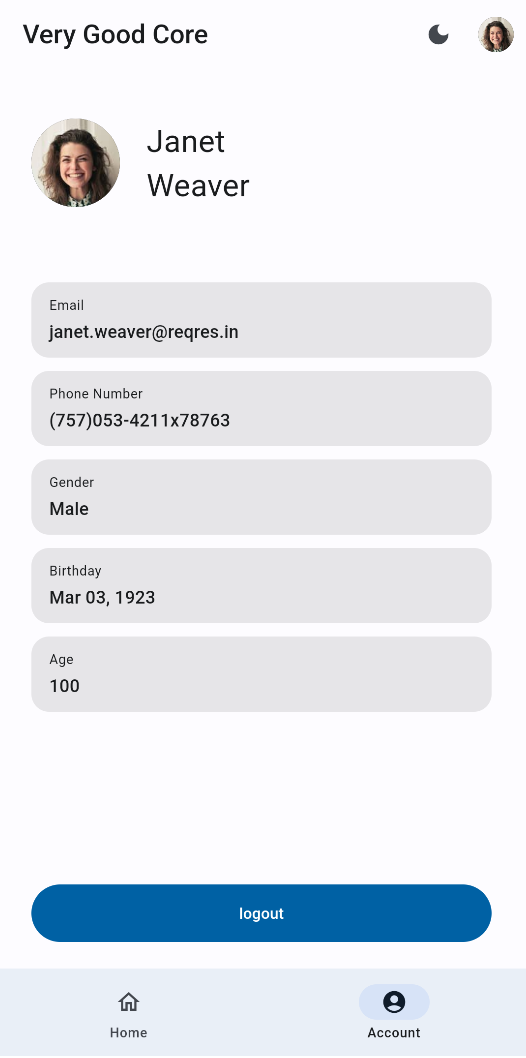
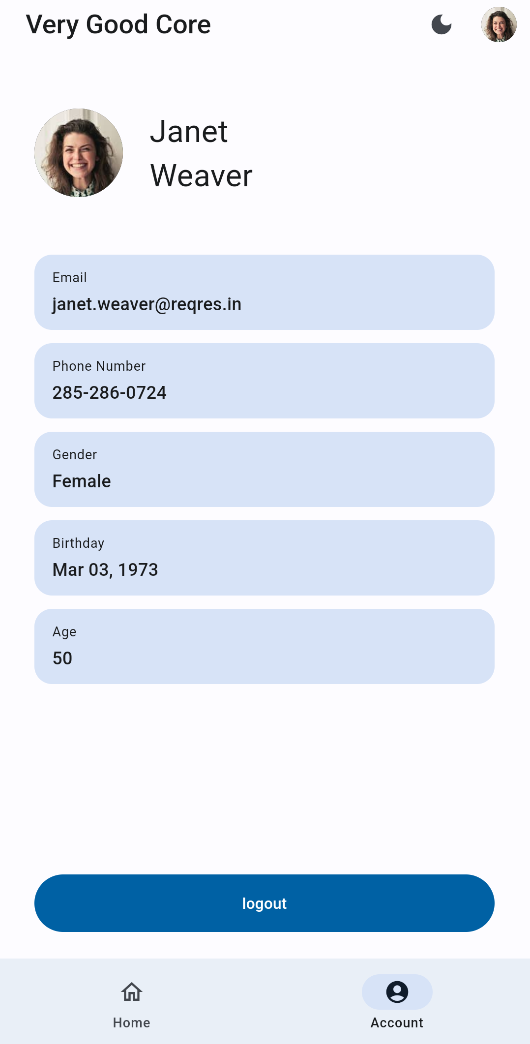
docs: add architecture diagram (#19)
* docs: add architecture diagram

* fix(analyze): fix mock imports

diff --git a/src/my_app/lib/features/home/presentation/widgets/post_container_footer.dart b/src/my_app/lib/features/home/presentation/widgets/post_container_footer.dart
@@ -45,7 +45,7 @@ class _FooterItems extends StatelessWidget {
         padding: EdgeInsets.symmetric(horizontal: Insets.xs),
         decoration: BoxDecoration(
           border: Border.all(
-            color: Theme.of(context).colorScheme.onBackground.withOpacity(0.25),
+            color: context.colorScheme.onBackground.withOpacity(0.25),
           ),
           borderRadius: AppTheme.defaultBoardRadius,
         ),
@@ -55,14 +55,14 @@ class _FooterItems extends StatelessWidget {
             Icon(
               leftIcon,
               size: (AppTextStyle.bodySmall.fontSize ?? 14) * 1.5,
-              color: Theme.of(context).colorScheme.secondary,
+              color: context.colorScheme.secondary,
             ),
             Padding(
               padding: EdgeInsets.all(Insets.xs),
               child: Text(
                 value,
                 style: AppTextStyle.bodySmall.copyWith(
-                  color: Theme.of(context).colorScheme.secondary,
+                  color: context.colorScheme.secondary,
                 ),
               ),
             ),
@@ -70,7 +70,7 @@ class _FooterItems extends StatelessWidget {
               Icon(
                 rightIcon,
                 size: (AppTextStyle.bodySmall.fontSize ?? 14) * 1.5,
-                color: Theme.of(context).colorScheme.secondary,
+                color: context.colorScheme.secondary,
               ),
           ],
         ),

diff --git a/src/my_app/lib/features/home/presentation/widgets/empty_post.dart b/src/my_app/lib/features/home/presentation/widgets/empty_post.dart
@@ -9,7 +9,7 @@ class EmptyPost extends StatelessWidget {
   @override
   Widget build(BuildContext context) => Container(
         padding: EdgeInsets.symmetric(horizontal: Insets.lg),
-        color: Theme.of(context).colorScheme.background,
+        color: context.colorScheme.background,
         width: double.infinity,
         child: Column(
           mainAxisAlignment: MainAxisAlignment.center,
@@ -17,18 +17,14 @@ class EmptyPost extends StatelessWidget {
             Icon(
               Icons.list_alt,
               size: 200,
-              color:
-                  Theme.of(context).colorScheme.onBackground.withOpacity(0.25),
+              color: context.colorScheme.onBackground.withOpacity(0.25),
             ),
             Padding(
               padding: EdgeInsets.only(top: Insets.sm, bottom: Insets.xs),
               child: Text(
                 context.l10n.post__empty_post__empty_post_message,
                 style: AppTextStyle.titleLarge.copyWith(
-                  color: Theme.of(context)
-                      .colorScheme
-                      .onBackground
-                      .withOpacity(0.25),
+                  color: context.colorScheme.onBackground.withOpacity(0.25),
                 ),
                 textAlign: TextAlign.center,
               ),

diff --git a/src/my_app/lib/core/presentation/widgets/very_good_core_text_field.dart b/src/my_app/lib/core/presentation/widgets/very_good_core_text_field.dart
@@ -2,6 +2,7 @@ import 'package:flutter/material.dart';
 import 'package:flutter_hooks/flutter_hooks.dart';
 import 'package:very_good_core/app/themes/spacing.dart';
 import 'package:very_good_core/app/themes/text_styles.dart';
+import 'package:very_good_core/app/utils/extensions.dart';
 
 class VeryGoodCoreTextField extends StatelessWidget {
   const VeryGoodCoreTextField({
@@ -47,7 +48,7 @@ class VeryGoodCoreTextField extends StatelessWidget {
 
   @override
   Widget build(BuildContext context) {
-    final ColorScheme colorScheme = Theme.of(context).colorScheme;
+    final ColorScheme colorScheme = context.colorScheme;
 
     return Semantics(
       key: Key(labelText),
@@ -130,7 +131,7 @@ class _PasswordTextField extends HookWidget {
   @override
   Widget build(BuildContext context) {
     final ValueNotifier<bool> isPasswordHidden = useState<bool>(true);
-    final ColorScheme colorScheme = Theme.of(context).colorScheme;
+    final ColorScheme colorScheme = context.colorScheme;
 
     return Row(
       children: <Widget>[

diff --git a/src/my_app/lib/core/presentation/widgets/very_good_core_info_text_field.dart b/src/my_app/lib/core/presentation/widgets/very_good_core_info_text_field.dart
@@ -2,6 +2,7 @@ import 'package:flutter/material.dart';
 import 'package:very_good_core/app/themes/app_theme.dart';
 import 'package:very_good_core/app/themes/spacing.dart';
 import 'package:very_good_core/app/themes/text_styles.dart';
+import 'package:very_good_core/app/utils/extensions.dart';
 
 class VeryGoodCoreInfoTextField extends StatelessWidget {
   const VeryGoodCoreInfoTextField({
@@ -23,7 +24,7 @@ class VeryGoodCoreInfoTextField extends StatelessWidget {
           padding:
               EdgeInsets.symmetric(vertical: Insets.sm, horizontal: Insets.med),
           decoration: BoxDecoration(
-            color: Theme.of(context).colorScheme.onBackground.withOpacity(0.1),
+            color: context.colorScheme.secondaryContainer,
             borderRadius: AppTheme.defaultBoardRadius,
           ),
           width: isExpanded ? double.infinity : null,

diff --git a/src/my_app/lib/core/presentation/widgets/very_good_core_avatar.dart b/src/my_app/lib/core/presentation/widgets/very_good_core_avatar.dart
@@ -1,5 +1,6 @@
 import 'package:cached_network_image/cached_network_image.dart';
 import 'package:flutter/material.dart';
+import 'package:very_good_core/app/utils/extensions.dart';
 
 class VeryGoodCoreAvatar extends StatelessWidget {
   const VeryGoodCoreAvatar({
@@ -27,7 +28,7 @@ class VeryGoodCoreAvatar extends StatelessWidget {
                   ) =>
                       Container(
                     decoration: BoxDecoration(
-                      color: Theme.of(context).colorScheme.onBackground,
+                      color: context.colorScheme.onBackground,
                       image: DecorationImage(
                         image: imageProvider,
                         fit: BoxFit.cover,

diff --git a/src/my_app/lib/core/presentation/widgets/app_title.dart b/src/my_app/lib/core/presentation/widgets/app_title.dart
@@ -1,6 +1,7 @@
 import 'package:flutter/material.dart';
 import 'package:very_good_core/app/constants/constant.dart';
 import 'package:very_good_core/app/themes/text_styles.dart';
+import 'package:very_good_core/app/utils/extensions.dart';
 
 class AppTitle extends StatelessWidget {
   const AppTitle({super.key});
@@ -9,6 +10,6 @@ class AppTitle extends StatelessWidget {
   Widget build(BuildContext context) => Text(
         Constant.appName,
         style: AppTextStyle.displayLarge
-            .copyWith(color: Theme.of(context).colorScheme.primary),
+            .copyWith(color: context.colorScheme.primary),
       );
 }

diff --git a/src/my_app/lib/features/home/presentation/widgets/post_container_header.dart b/src/my_app/lib/features/home/presentation/widgets/post_container_header.dart
@@ -27,8 +27,7 @@ class PostContainerHeader extends StatelessWidget {
                 post.createdUtc.ago,
               ),
               style: AppTextStyle.bodySmall.copyWith(
-                color:
-                    Theme.of(context).colorScheme.onBackground.withOpacity(0.5),
+                color: context.colorScheme.onBackground.withOpacity(0.5),
               ),
             ),
           ),

diff --git a/src/my_app/test/flutter_test_config.dart b/src/my_app/test/flutter_test_config.dart
@@ -11,7 +11,7 @@ import 'utils/test_utils.dart';
 class TestConfig {
   /// Update this if you want to update the golden files in the remote repository
   /// Format: yyyyMMddHHmm
-  static String get goldensVersion => '202302111600';
+  static String get goldensVersion => '202302240000';
 
   /// Customize your threshold here
   /// For example, the error threshold here is 15%

diff --git a/src/my_app/lib/features/profile/presentation/screens/profile_screen.dart b/src/my_app/lib/features/profile/presentation/screens/profile_screen.dart
@@ -74,7 +74,7 @@ class ProfileScreen extends HookWidget {
                     ),
                   ],
                 ),
-                VSpace(Insets.xl),
+                VSpace(Insets.med),
                 Expanded(
                   child: Column(
                     crossAxisAlignment: CrossAxisAlignment.start,
